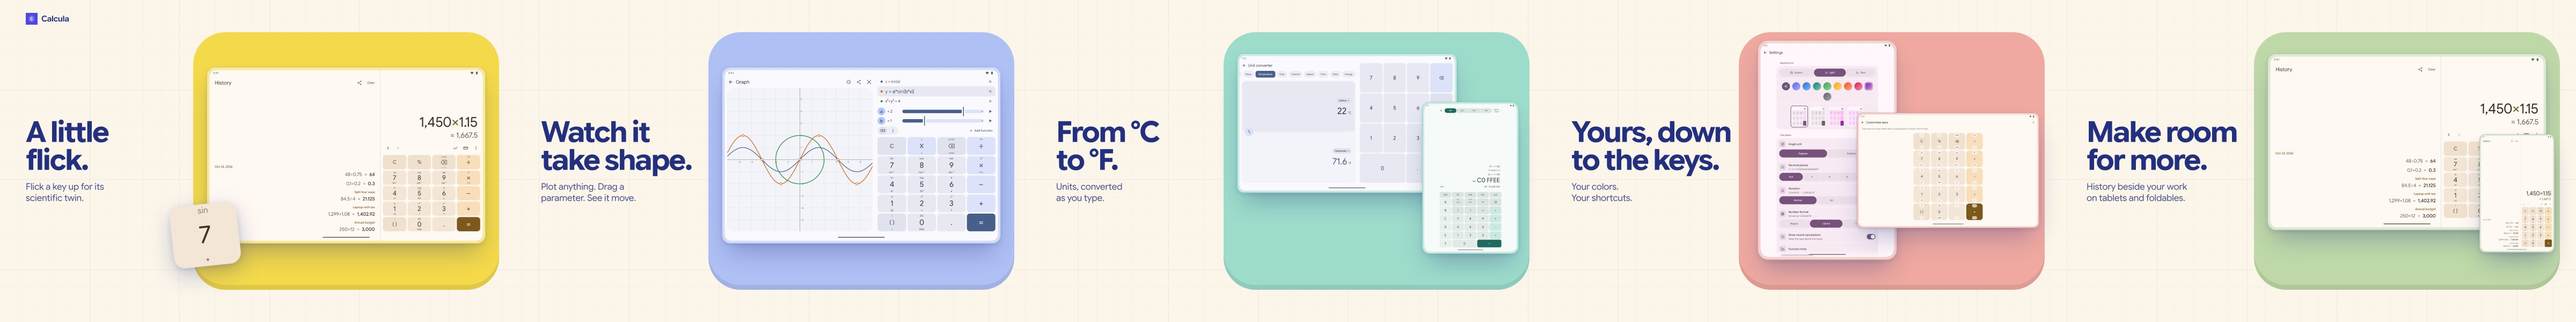
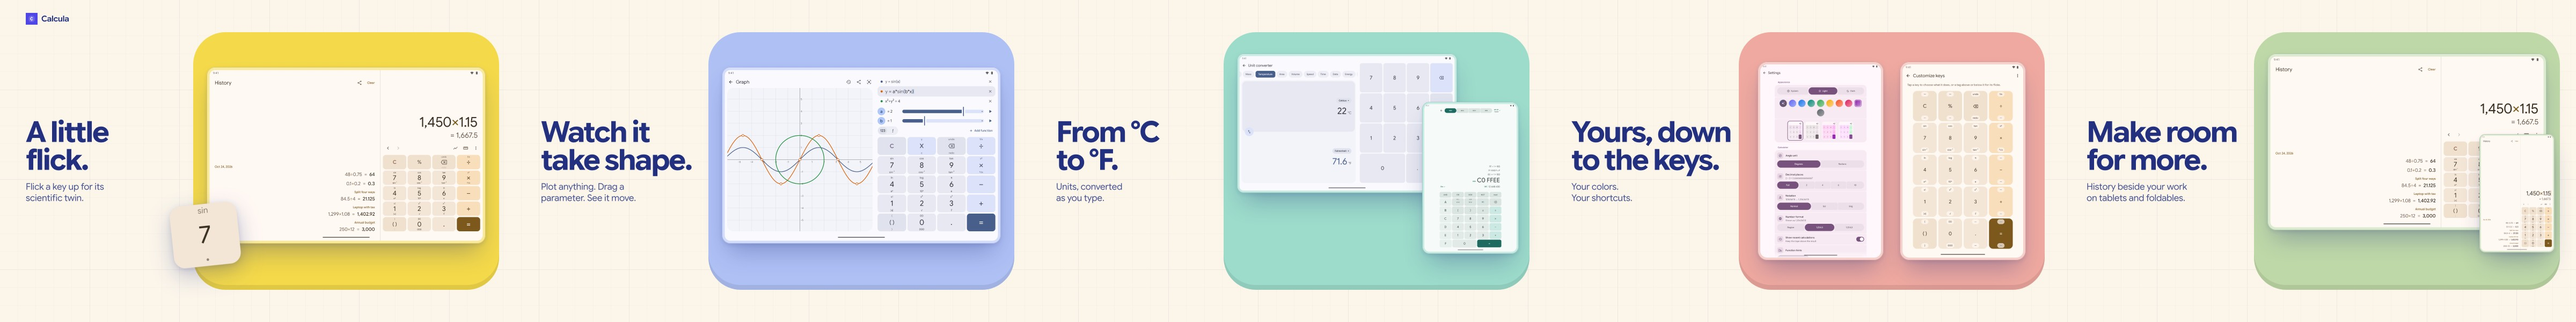
Refresh README artwork and simplify palette choices

Changed region(s): [[0.6562, 0.12, 0.8125, 0.87]]

diff --git a/store-listing/theme.css b/store-listing/theme.css
@@ -54,13 +54,41 @@ header p{margin:26px 0 0;font-size:40px;line-height:1.24;letter-spacing:-.5px;wh
 .tablet10 .flick .key{left:640px;top:760px;width:250px}
 .tablet10 .pair .primary{left:770px;top:200px;width:820px}
 .tablet10 .pair .secondary{left:1460px;top:380px;width:360px}
-.tablet10 .customize-pair .primary{left:790px;top:150px;width:520px}
-.tablet10 .customize-pair .secondary{left:1160px;top:420px;width:680px}
+.tablet10 .customize-pair .primary{left:790px;top:230px;width:470px}
+.tablet10 .customize-pair .secondary{left:1320px;top:230px;width:470px}
 .tablet10 .room .primary{left:770px;top:200px;width:1040px}
 .tablet10 .room .secondary{left:1560px;top:500px;width:280px;z-index:3}
 
 .feature .brand{left:52px;top:44px;font-size:24px;gap:10px}.feature .brand img{width:34px;height:34px}.feature header{left:52px;top:125px;right:310px}.feature h1{font-size:80px;line-height:.98;letter-spacing:-3px}.feature header p{font-size:27px;margin-top:25px}.feature .primary{left:760px;top:40px;width:230px}.feature .block{display:none}
 .icon,.icon body,.icon .campaign{background:transparent}.icon .app-icon{position:absolute;inset:0;width:100%;height:100%;display:block}
+
+/* README tools: softly lit color fields, consistent cards, and real app screens. */
+.readme .tools .tools-feature{position:absolute;top:36px;width:744px;height:1188px;overflow:hidden;border-radius:50px;z-index:1}
+.readme .tools .graph-feature{left:36px;background:linear-gradient(155deg,#edf6ff 6%,#cae2ff 56%,#82b5ed);color:#10275f}
+.readme .tools .convert-feature{left:828px;background:linear-gradient(155deg,#f1faf3 6%,#ccebdc 56%,#80c9ac);color:#103b34}
+.readme .tools .programmer-feature{left:1620px;background:linear-gradient(155deg,#f6f1ff 6%,#e1d4fb 56%,#b29ae7);color:#25165f}
+.readme .tools .tools-wave{position:absolute;top:-36px;width:2400px;height:1260px;pointer-events:none}
+.readme .tools .graph-feature .tools-wave{left:-36px}
+.readme .tools .convert-feature .tools-wave{left:-828px}
+.readme .tools .programmer-feature .tools-wave{left:-1620px}
+.readme .tools .tools-wave path{fill:#fff;fill-opacity:.24;stroke:#fff;stroke-opacity:.35;stroke-width:3}
+.readme .tools .tools-title{position:relative;z-index:3;margin:64px 72px 0;font-size:105px;line-height:.98;font-weight:700;letter-spacing:-4px}
+.readme .tools .tools-caption{position:relative;z-index:3;margin:26px 72px 0;font-size:33px;line-height:1.22;color:inherit;opacity:.85}
+.readme .tools .device{top:405px;left:120px;width:520px;transform:rotate(-6deg);background:#fff;box-shadow:0 8px 22px #17265730,0 45px 80px -30px #17265760}
+
+/* Personalization: a pair of generous color fields for two distinct choices. */
+.readme .customize-feature .custom-card{position:absolute;top:36px;width:1140px;height:1188px;overflow:hidden;border-radius:50px;z-index:1}
+.readme .customize-feature .appearance-card{left:40px;color:#33235e;background:linear-gradient(155deg,#f8f2ff 5%,#e6d9f7 55%,#bc9bda)}
+.readme .customize-feature .shortcuts-card{left:1220px;color:#563a16;background:linear-gradient(155deg,#fff8ed 5%,#f9dfbe 55%,#eab476)}
+.readme .customize-feature .custom-wave{position:absolute;top:-36px;width:2400px;height:1260px;pointer-events:none}
+.readme .customize-feature .appearance-card .custom-wave{left:-40px}
+.readme .customize-feature .shortcuts-card .custom-wave{left:-1220px}
+.readme .customize-feature .custom-wave path{fill:#fff;fill-opacity:.24;stroke:#fff;stroke-opacity:.35;stroke-width:3}
+.readme .customize-feature .custom-title{position:relative;z-index:3;margin:64px 80px 0;font-size:106px;line-height:.98;font-weight:700;letter-spacing:-4px}
+.readme .customize-feature .custom-caption{position:relative;z-index:3;margin:24px 80px 0;font-size:34px;line-height:1.2;color:inherit;opacity:.82}
+.readme .customize-feature .device{top:395px;left:285px;width:650px;transform:rotate(-5deg);background:#fff;box-shadow:0 8px 22px #17265724,0 45px 80px -30px #17265755}
+.readme .customize-feature .appearance-card .device{background:#e7d5f2}
+.readme .customize-feature .shortcuts-card .device{background:#f2d8b9}
 
 /* README before and after: the same phone, Calculator++ beside Calcula. Each pair stands on one giant calculator
    key, like the store cards; the original keeps a thin ink ring, Calcula steps forward in its own key-tinted frame. */

diff --git a/store-listing/theme.js b/store-listing/theme.js
@@ -36,6 +36,24 @@ export default {
   },
 
   compose({kind, index, slide, main}) {
+    if (slide.layout === 'customize-feature') {
+      main.insertAdjacentHTML('beforeend', `<section class="custom-card appearance-card"><div class="custom-title">A look that<br>feels like you.</div><div class="custom-caption">Colors, themes and styles.</div></section><section class="custom-card shortcuts-card"><div class="custom-title">Your keys.<br>Your rules.</div><div class="custom-caption">Your favorites, a flick away.</div></section>`);
+      for (const name of ['appearance', 'shortcuts']) {
+        const card = main.querySelector(`.${name}-card`);
+        card.insertAdjacentHTML('beforeend', `<svg class="custom-wave" viewBox="0 0 2400 1260" aria-hidden="true"><path d="M0 820 C240 820 350 600 620 650 S980 940 1210 850 S1530 590 1760 650 S2140 935 2400 790 V1260 H0 Z"/></svg>`);
+        card.append(main.querySelector(`.device.${name}`));
+      }
+      return;
+    }
+    if (slide.layout === 'tools') {
+      main.insertAdjacentHTML('beforeend', `<section class="tools-feature graph-feature"><div class="tools-title">Watch it<br>take shape.</div><div class="tools-caption">Plot anything. Drag a parameter.<br>See it move.</div></section><section class="tools-feature convert-feature"><div class="tools-title">From °C<br>to °F.</div><div class="tools-caption">Units, converted<br>as you type.</div></section><section class="tools-feature programmer-feature"><div class="tools-title">Hex,<br>sorted.</div><div class="tools-caption">Programmer mode with<br>bits, shifts and bases.</div></section>`);
+      for (const name of ['graph', 'convert', 'programmer']) {
+        const card = main.querySelector(`.${name}-feature`);
+        card.insertAdjacentHTML('beforeend', `<svg class="tools-wave" viewBox="0 0 2400 1260" aria-hidden="true"><path d="M0 760 C200 600 400 600 600 760 S1000 920 1200 760 S1600 600 1800 760 S2200 920 2400 760 V1260 H0 Z"/></svg>`);
+        card.append(main.querySelector(`.device.${name}`));
+      }
+      return;
+    }
     if (kind === 'icon') {
       main.insertAdjacentHTML('beforeend', '<img class="app-icon" src="../../branding/calcula-icon.svg" alt="Calcula app icon">');
       return;

diff --git a/shared/src/commonTest/kotlin/com/bernaferrari/calculator/data/RepositoryTest.kt b/shared/src/commonTest/kotlin/com/bernaferrari/calculator/data/RepositoryTest.kt
@@ -48,4 +48,16 @@ class RepositoryTest {
         assertEquals(3, loaded.decimalPlaces)
         assertTrue(loaded.reduceMotion)
     }
+
+    @Test fun legacyGraphitePreferenceMigratesToNeutralWithoutLosingSettings() = runTest {
+        val store = MemoryStringStore()
+        store.put("preferences", """{"palette":"GRAPHITE","colorStyle":"VIBRANT","decimalPlaces":3}""")
+        val preferences = StoredPreferencesRepository(store)
+        val migrated = preferences.getUserPreferences().first()
+        assertEquals(AppPalette.INDIGO, migrated.palette)
+        assertEquals(ColorStyle.NEUTRAL, migrated.colorStyle)
+        assertEquals(3, migrated.decimalPlaces)
+        preferences.updateReduceMotion(true)
+        assertEquals(migrated.copy(reduceMotion = true), StoredPreferencesRepository(store).getUserPreferences().first())
+    }
 }

diff --git a/shared/src/commonMain/kotlin/com/bernaferrari/calculator/data/Repositories.kt b/shared/src/commonMain/kotlin/com/bernaferrari/calculator/data/Repositories.kt
@@ -29,7 +29,8 @@ private val json = Json {
 /** Settings as one JSON document; unknown or missing fields fall back to defaults. */
 class StoredPreferencesRepository(private val store: StringStore) : PreferencesRepository {
     private val state = MutableStateFlow(
-        store.get(KEY)?.let { runCatching { json.decodeFromString<UserPreferences>(it) }.getOrNull() } ?: UserPreferences(),
+        (store.get(KEY)?.let { runCatching { json.decodeFromString<UserPreferences>(it) }.getOrNull() } ?: UserPreferences())
+            .let { if (it.palette == AppPalette.GRAPHITE) it.copy(palette = AppPalette.INDIGO, colorStyle = ColorStyle.NEUTRAL) else it },
     ).also { UserFunctions.all = it.value.functions }
 
     override fun getUserPreferences(): Flow<UserPreferences> = state

diff --git a/shared/src/commonMain/kotlin/com/bernaferrari/calculator/ui/theme/Palettes.kt b/shared/src/commonMain/kotlin/com/bernaferrari/calculator/ui/theme/Palettes.kt
@@ -14,7 +14,7 @@ import com.materialkolor.material3.dynamicColorScheme
 
 /** The palettes this platform can show, wallpaper first where it exists. */
 val availablePalettes: List<AppPalette>
-    get() = AppPalette.entries.filter { it != AppPalette.WALLPAPER || supportsDynamicColor }
+    get() = AppPalette.entries.filter { it != AppPalette.GRAPHITE && (it != AppPalette.WALLPAPER || supportsDynamicColor) }
 
 /** What a person who never chose gets: their wallpaper where possible, indigo elsewhere. */
 fun AppPalette?.orDefault(): AppPalette = when {

diff --git a/shared/src/commonMain/kotlin/com/bernaferrari/calculator/domain/model/UserPreferences.kt b/shared/src/commonMain/kotlin/com/bernaferrari/calculator/domain/model/UserPreferences.kt
@@ -116,5 +116,6 @@ enum class AppPalette(val seed: Long) {
     ORANGE(0xFFF4511E),
     PINK(0xFFD81B60),
     PURPLE(0xFF8E24AA),
+    /** Retained to read preferences saved before Graphite was removed from the picker. */
     GRAPHITE(0xFF5F6368),
 }

diff --git a/store-listing/capture-emulator.py b/store-listing/capture-emulator.py
@@ -17,7 +17,10 @@ parser = argparse.ArgumentParser()
 parser.add_argument('--serial', required=True, help='Resizable emulator serial, e.g. emulator-5560')
 parser.add_argument('--locale', default='en-US', help='Per-app language and output folder, e.g. de-DE')
 parser.add_argument('--group', choices=['phone', 'tablet7', 'tablet10', 'desktop'])
+parser.add_argument('--id', help='Capture one configured scene within the selected group')
 args = parser.parse_args()
+if args.id and not args.group:
+    parser.error('--id requires --group')
 if not re.fullmatch(r'[a-z]{2,3}(?:-[A-Za-z0-9]{2,8})*', args.locale):
     parser.error('Invalid locale')
 sys.path.insert(0, str(HERE / 'studio'))
@@ -55,6 +58,9 @@ try:
         run('emu','resize-display',mode)
         density=round(profile['density']*160)
         views=[s for s in config['slides'] if group in s['groups']]+config.get('captureVariants',{}).get(group,[])
+        if args.id:
+            views=[s for s in views if s['id'] == args.id]
+            if not views: raise ValueError(f'No capture {args.id} in {group}')
         dimensions=None
         for slide in views:
             target=(slide.get('width',profile.get('captureWidth',profile['width'])),slide.get('height',profile.get('captureHeight',profile['height'])))
@@ -102,6 +108,9 @@ finally:
     shell('wm','size','reset')
     shell('wm','density','reset')
 capture_count=len(records)
+if args.id:
+    print(f'Refreshed {capture_count} screen; the full capture manifest was not changed.')
+    sys.exit(0)
 previous_manifest=HERE/args.locale/'capture-manifest.json'
 if args.group and previous_manifest.exists():
     prior=json.loads(previous_manifest.read_text())

diff --git a/README.md b/README.md
@@ -20,13 +20,9 @@
 
 ## Everything under your thumb
 
-<table>
-  <tr>
-    <td width="33%"><img src="store-listing/en-US/phone/phone-02-graph.jpg" alt="Watch it take shape: plotting functions and an equation with a parameter slider"></td>
-    <td width="33%"><img src="store-listing/en-US/phone/phone-03-convert.jpg" alt="From °C to °F: converting 22 Celsius to 71.6 Fahrenheit"></td>
-    <td width="33%"><img src="store-listing/en-US/phone/phone-04-programmer.jpg" alt="Hex, sorted: Programmer mode showing C0 FFEE in hexadecimal and decimal"></td>
-  </tr>
-</table>
+<p align="center">
+  <img src="store-listing/en-US/readme/tools.jpg" width="100%" alt="Calcula graphing functions, converting temperature, and working in hexadecimal">
+</p>
 
 - **Functions on the keys.** Flick up for the function written above a key, down for its partner. Trigonometry, logs, roots, powers, π and more, with no second screen of buttons.
 - **Exact answers.** Decimal arithmetic keeps `0.1 + 0.2` at `0.3`. Percentages work the way you expect: `200 + 10%` gives `220`. Simple fractions appear beside decimal results.
@@ -36,7 +32,7 @@
 ## Make it yours
 
 <p align="center">
-  <img src="store-listing/en-US/tablet10/tablet10-04-customize.jpg" width="100%" alt="Yours, down to the keys: appearance settings and custom key shortcuts on tablets">
+  <img src="store-listing/en-US/readme/customize.jpg" width="100%" alt="Calcula appearance settings and customizable key shortcuts">
 </p>
 
 Choose light or dark, your wallpaper's colors or a color family, and a style you can preview before applying. Keep the function labels, switch to small dots, or hide the hints, and drag the bar above the keys to resize them. When you want more, assign your own key shortcuts, save named memories, define functions such as `tip(x) = x × 0.18`, or switch to reverse Polish notation.

diff --git a/store-listing/README.md b/store-listing/README.md
@@ -36,7 +36,7 @@ cd store-listing
 python3 capture-emulator.py --serial emulator-5560
 ```
 
-The script installs the fresh APK, switches between phone, tablet, and desktop display modes, and captures every scene in `design.json` with `adb exec-out screencap`. It selects the emulator’s primary display explicitly. Android demo mode fixes the real System UI clock at 9:41, hides notifications, and shows full connectivity and battery icons. It resets demo mode around each resize so Android does not duplicate connectivity icons. Capture provenance, source commit, APK hash, dimensions, and image hashes are written to `en-US/capture-manifest.json`.
+The script installs the fresh APK, switches between phone, tablet, and desktop display modes, and captures every scene in `design.json` with `adb exec-out screencap`. It selects the emulator’s primary display explicitly. Android demo mode fixes the real System UI clock at 9:41, hides notifications, and shows full connectivity and battery icons. It resets demo mode around each resize so Android does not duplicate connectivity icons. Capture provenance, source commit, APK hash, dimensions, and image hashes are written to `en-US/capture-manifest.json`. To refresh the README's blue programmer screen alone, use `--group phone --id 08-programmer-blue`; a single-scene capture leaves the full manifest unchanged.
 
 Raw phone captures are 1080 × 2340 at 400 dpi, placed in 1080 × 1920 campaign canvases. The 7-inch portrait captures are 1200 × 1920 at 320 dpi, 10-inch landscape captures are 1920 × 1200 at 240 dpi, and desktop-sized captures are 1920 × 1080 at 200 dpi. `captureWidth` and `captureHeight` can differ from the export canvas dimensions. `--group phone`, `--group tablet7`, `--group tablet10`, or `--group desktop` limits a diagnostic run; a full run refreshes the complete manifest.
 
